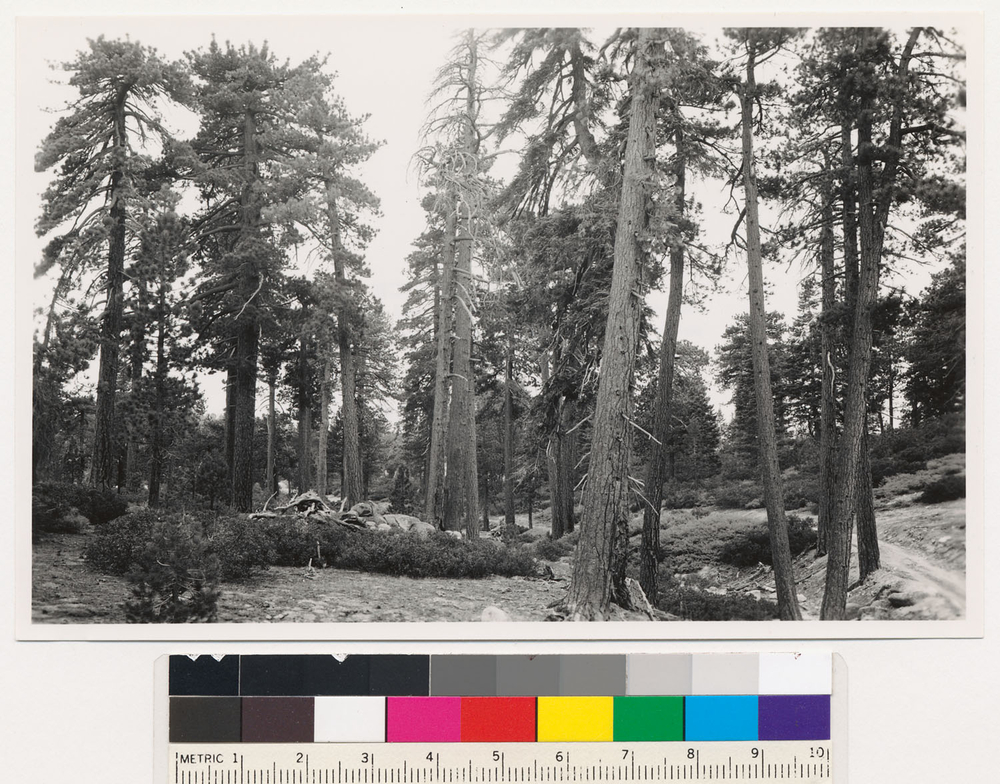
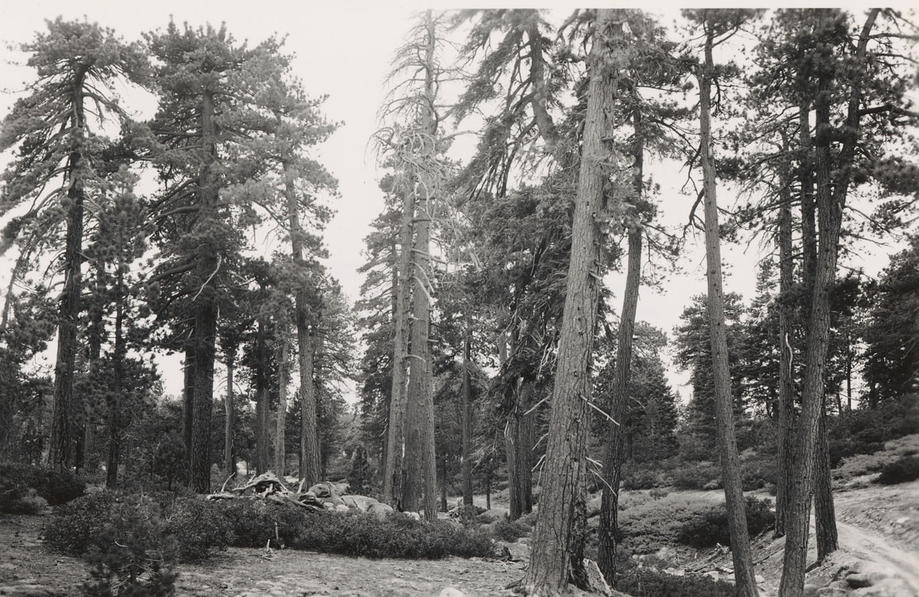
cropped pictures

diff --git a/docs/index.md b/docs/index.md
@@ -7,7 +7,7 @@ ESM267 Assignment 2: Creating a webmap using qgis2web with GitHub pages
 
 writing...
 
-#### <p style="text-align: center;">Interactive Map Displaying Historic and Current YPMC Tree composition:</p>
+#### <p align = "center">Interactive Map Displaying Historic and Current YPMC Tree composition:</p>
 
 <iframe src="assignment_2_mod/index.html" height=768 width=1024></iframe>
 
@@ -17,11 +17,11 @@ writing...
 
 ##### Angeles National Forest:
 
-2638.jpeg
+<img align="center" src="https://github.com/leanagoetze/ESM267-Goetze-webmap/blob/main/docs/pictures/2638.jpeg?raw=true" height=400 width=650 />
 
 ##### Cleveland National Forest:
 
-3083.jpeg
+<img align="center" src="https://github.com/leanagoetze/ESM267-Goetze-webmap/blob/main/docs/pictures/3083.jpeg?raw=true" height=400 width=650 />
 
 ##### Los Padres National Forest:
 
@@ -29,7 +29,9 @@ writing...
 
 ##### San Bernardino National Forest:
 
-0016.jpeg
+<img align="center" src="https://github.com/leanagoetze/ESM267-Goetze-webmap/blob/main/docs/pictures/0016.jpeg?raw=true" height=400 width=650 />
+
+
 
 
 
